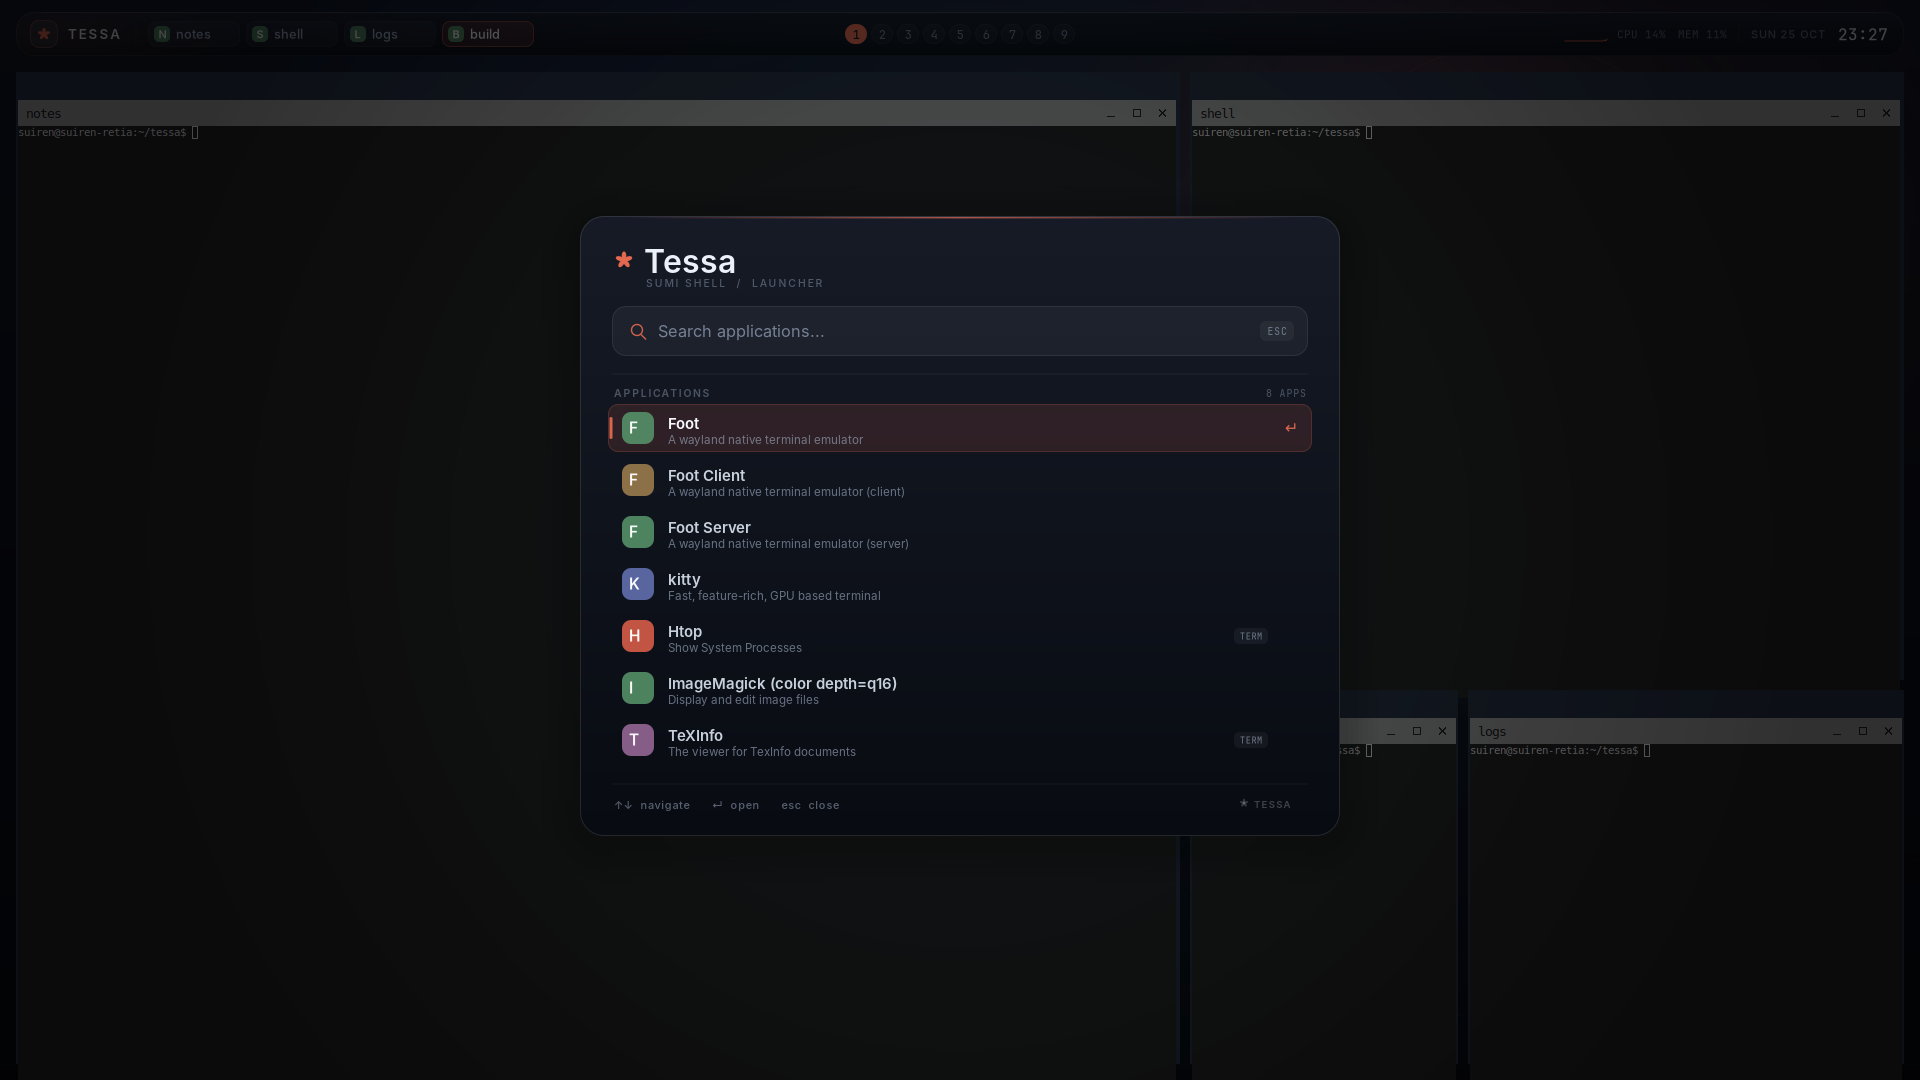
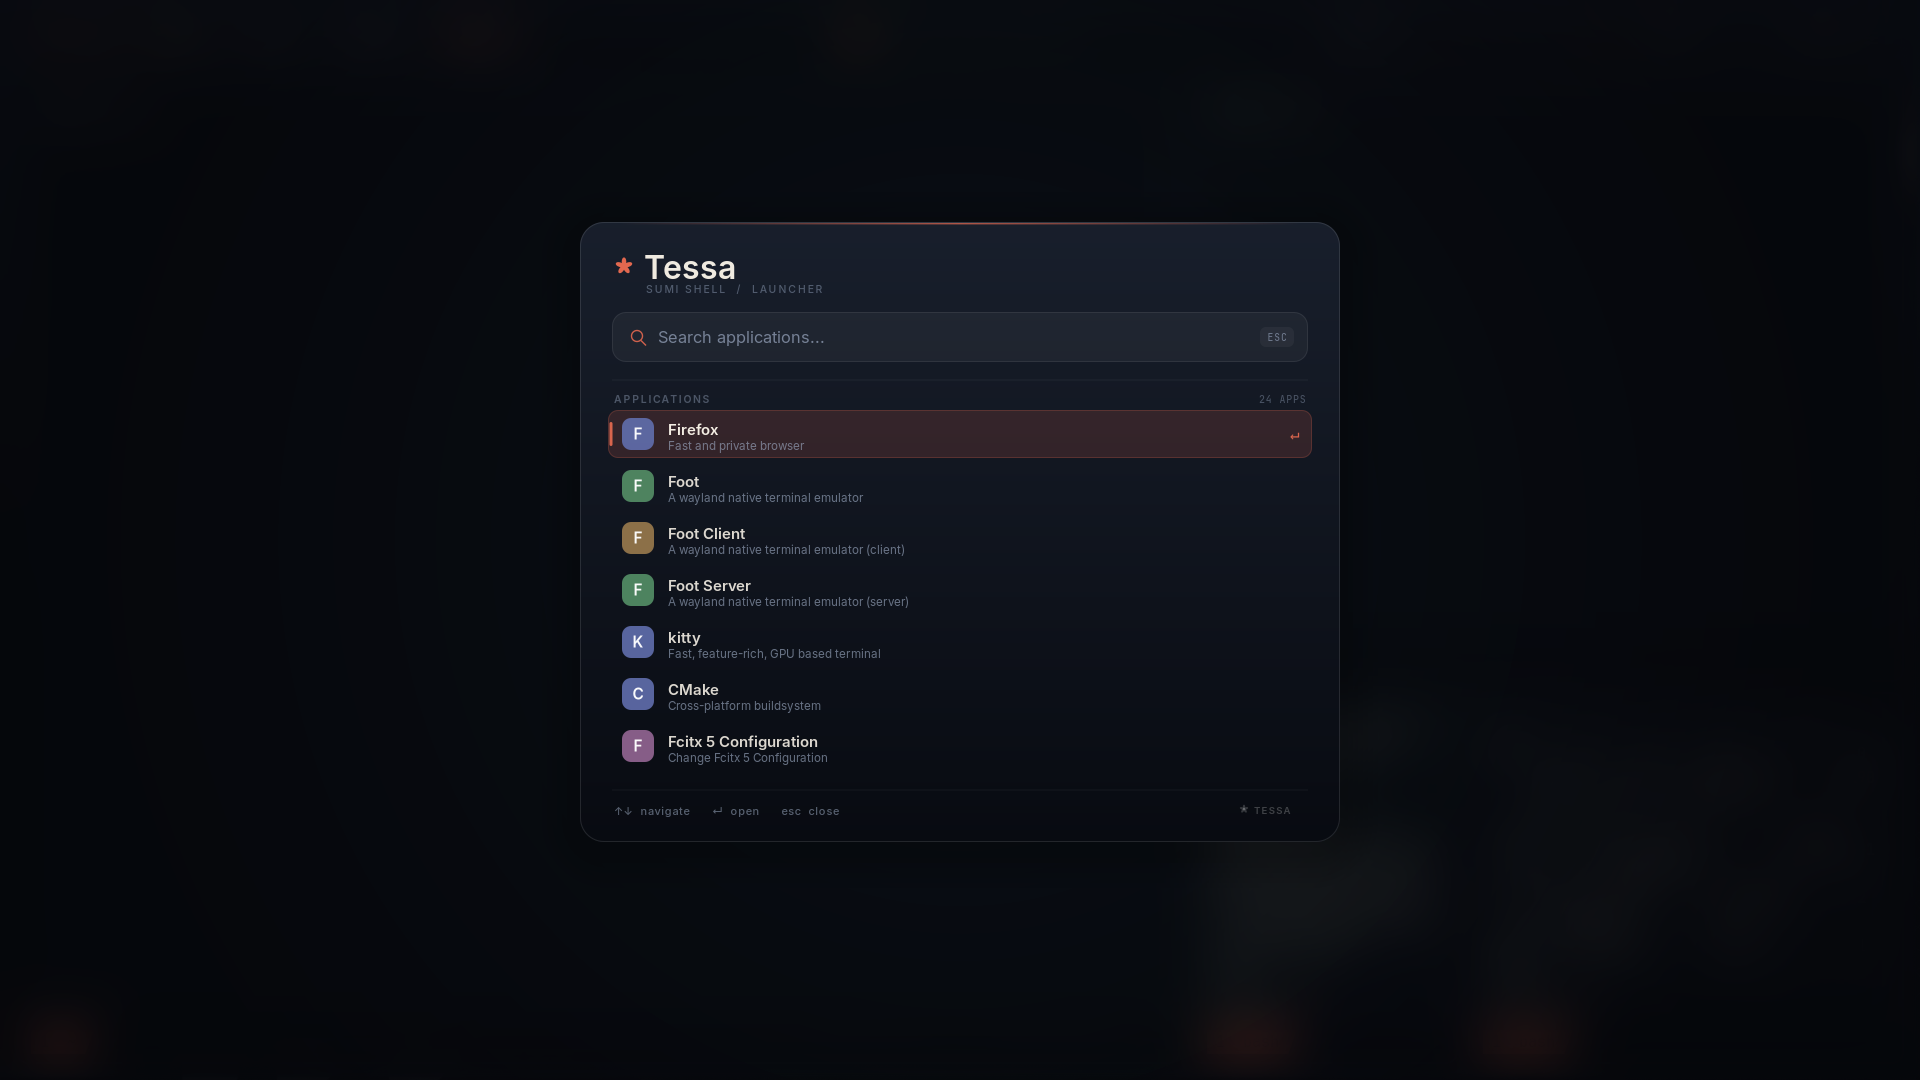
images: refresh screenshots and social preview

diff --git a/src/content/docs/docs/index.md b/src/content/docs/docs/index.md
@@ -12,10 +12,13 @@ required, but layer-shell-compatible external bars and launchers can replace it.
 
 ![Tessa mosaic layout](/images/mosaic.png)
 
+![Tessa unified control center](/images/control-center.png)
+
 ![Tessa launcher](/images/launcher.png)
 
-The screenshots above are from a headless development session, using foot as the
-terminal.
+The screenshots above are from a headless development session using kitty and
+the Vermilion Ink palette. The control center uses demo NetworkManager and
+BlueZ services, so no real Wi-Fi SSID or Bluetooth device is shown.
 
 For a single end-to-end reference covering build, installation, every config
 key, rules, effects, IPC, events, and hooks, see the

diff --git a/src/content/docs/docs/extending.md b/src/content/docs/docs/extending.md
@@ -12,7 +12,7 @@ The socket is created with mode `0600` under `$XDG_RUNTIME_DIR` (normally
 `tessa.sock`). The same user can run any command through the API, exactly as if
 they had run it in a terminal.
 
-![External status entries and a custom launcher entry](/images/extensions.png)
+![A custom launcher entry defined in the config](/images/extensions.png)
 
 ## tessa-ctl
 
